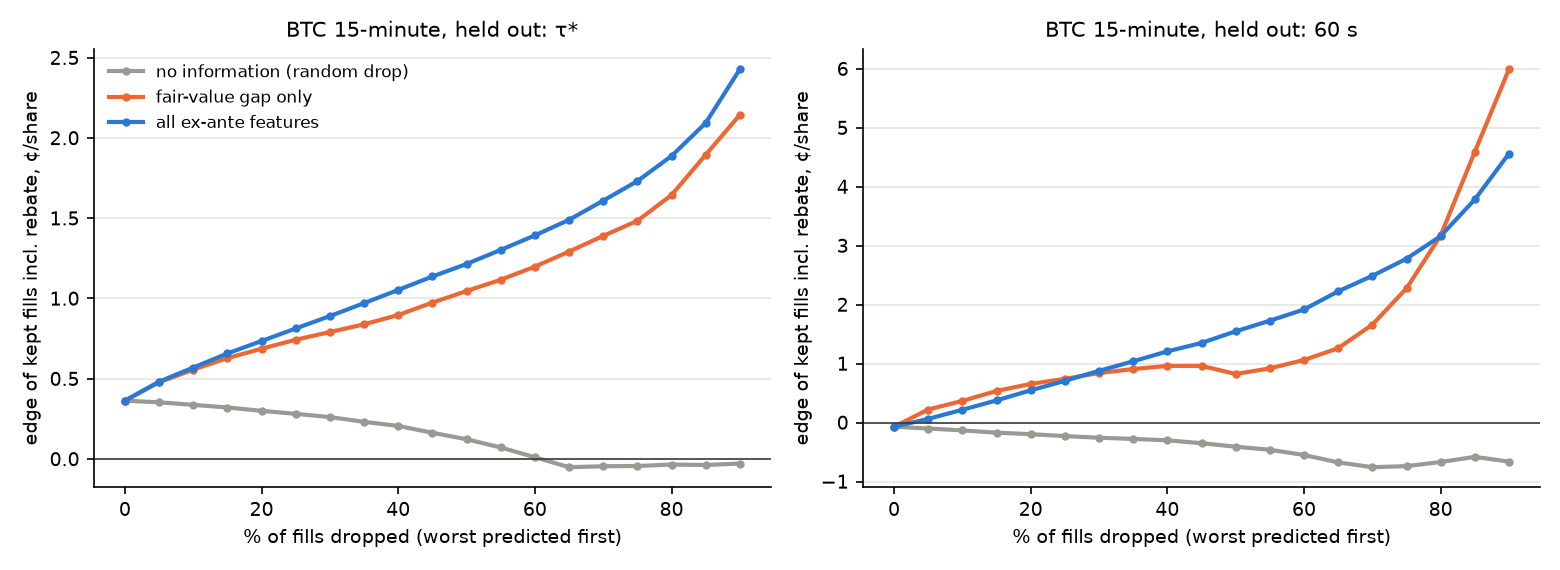
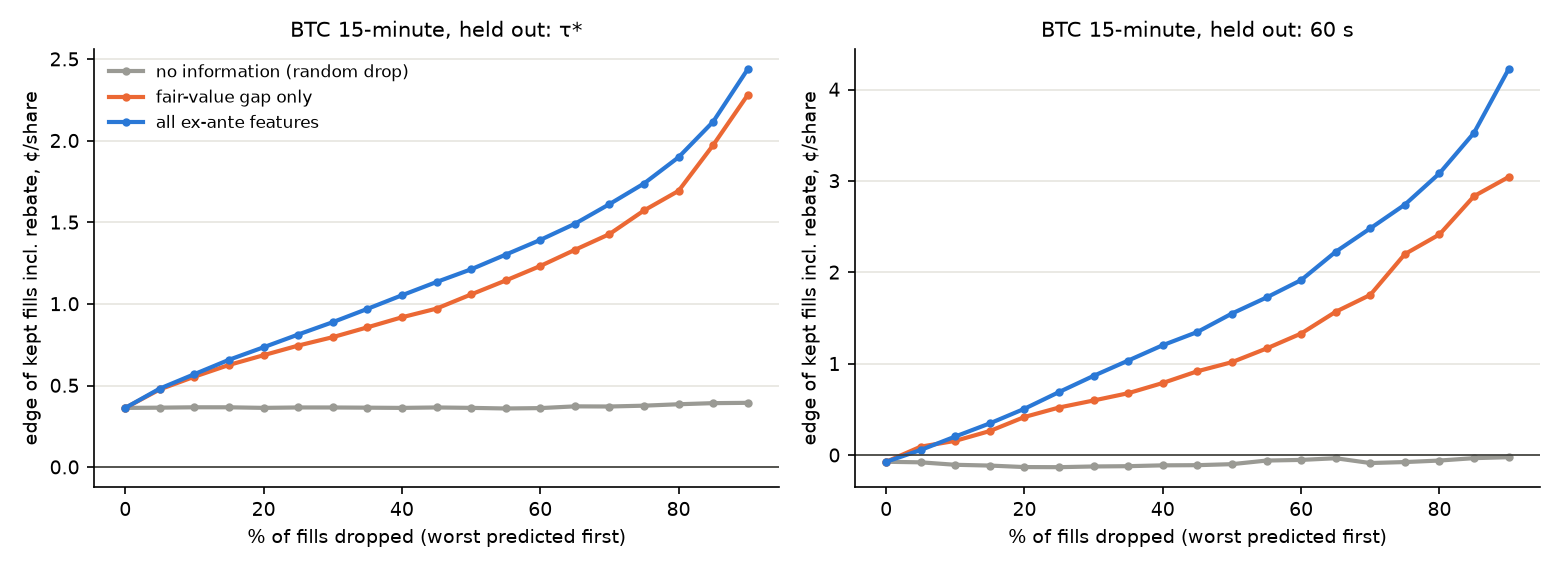
markouts: rank decision-curve fills within each held-out day (random baseline was dropping the good day first)

diff --git a/src/polymm/markouts/analysis.py b/src/polymm/markouts/analysis.py
@@ -238,16 +238,27 @@ def final_params(f: pl.DataFrame, tstar: dict[str, int], lam_rel: float = 0.01, 
 
 def decision_curve(p: pl.DataFrame, fracs=tuple(np.round(np.arange(0, 0.95, 0.05), 2))) -> pl.DataFrame:
     """Drop the fills each scorer likes least, keep the rest: what is the kept fills' realized edge?
-    Ties (const) are broken at random, which is what 'no information' means."""
+    Ties (const) are broken at random, which is what 'no information' means.
+    Why rank within each held-out day: every day has its own walk-forward fit, so the
+    predictions of different days carry different intercepts (const was −0.05 on 11-07 and
+    −0.19 on 11-08). Ranking the pooled days drops whole days by their intercept, which made
+    the 'no information' line throw away the good day first (fixed 2026-11-09). A live rule
+    also only compares fills of the same day against each other."""
     rng = np.random.default_rng(0)
     out = []
     for fam in p["family"].unique().to_list():
         d = p.filter(pl.col("family") == fam)
         M = d["M"].to_numpy() + d["rebate_c"].to_numpy()
         sz = d["size"].to_numpy()
+        day = d["date"].to_numpy() if "date" in d.columns else np.zeros(d.height)
         for sc in ("pred_const", "pred_gap", "pred_ridge"):
             score = d[sc].to_numpy() + rng.uniform(0, 1e-9, d.height)
-            order = np.argsort(-score)
+            # within-day rank in [0, 1): 0 = the fill this scorer likes best that day
+            pct = np.empty(d.height)
+            for u in np.unique(day):
+                ix = np.flatnonzero(day == u)
+                pct[ix[np.argsort(-score[ix])]] = np.arange(ix.size) / ix.size
+            order = np.argsort(pct, kind="stable")
             for q in fracs:
                 keep = order[: max(1, int(round(len(order) * (1 - q))))]
                 out.append({"family": fam, "scorer": sc[5:], "drop": float(q), "kept": len(keep),

diff --git a/research/adverse_selection.md b/research/adverse_selection.md
@@ -10,7 +10,7 @@ An independent code audit ran before this version (§9).
 Every public trade is somebody's maker fill, so we measured the fills that an average resting order got: 233,202 fills, about 4.6 M USD notional, in three families.
 In **BTC 15-minute**, the average maker captures **0.83 ¢** per share at the fill and gives **all of it back within one second**: $M(1\,\text{s}) = +0.04 \pm 0.07$ ¢. Weighted by size, it is $-0.29 \pm 0.14$ ¢ already at 1 s, because larger takers are more informed.
 The maker rebate (0.26 ¢) is roughly what keeps the average maker at zero, and the sign changes from day to day (including the rebate: 11-07 $-0.05$ ¢, 11-08 $+0.60$ ¢).
-The flow is not uniform. Features known **before** a fill separate good fills from bad ones out of sample: dropping the half of fills a ridge model likes least lifts the edge of the kept half from $+0.36$ to $+1.22$ ¢ per share at 1 s, and from $-0.07$ to $+1.55$ ¢ at 60 s.
+The flow is not uniform. Features known **before** a fill separate good fills from bad ones out of sample: dropping the half of fills a ridge model likes least lifts the edge of the kept half from $+0.36$ to $+1.21$ ¢ per share at 1 s, and from $-0.07$ to $+1.55$ ¢ at 60 s.
 **Gate A: GO (provisional) for BTC 15-minute, on one slice: quoted spread > 5 ¢.** It was chosen on the training day and was positive at 95 % on both held-out days, at 1 s and at 60 s.
 The daily ladder and Fed are **inconclusive**: too few fills to fix τ*, and almost no decay inside 60 s.
 
@@ -109,17 +109,20 @@ The target is the edge of a fill, $\hat M(\tau \mid z)$, equivalently $\hat a = 
 
 | BTC 15-minute, held out, edge incl. rebate (¢) | all fills | drop the worst 25 % | drop the worst 50 % |
 |---|---|---|---|
-| τ* = 1 s, random drop | +0.36 | +0.28 | +0.12 |
-| τ* = 1 s, fair-value gap only | +0.36 | +0.74 | +1.05 |
-| τ* = 1 s, ridge (12 features) | +0.36 | +0.81 | **+1.22** |
-| 60 s, fair-value gap only | −0.07 | +0.74 | +0.82 |
-| 60 s, ridge | −0.07 | +0.71 | **+1.55** |
+| τ* = 1 s, random drop | +0.36 | +0.37 | +0.36 |
+| τ* = 1 s, fair-value gap only | +0.36 | +0.75 | +1.06 |
+| τ* = 1 s, ridge (12 features) | +0.36 | +0.81 | **+1.21** |
+| 60 s, random drop | −0.07 | −0.13 | −0.10 |
+| 60 s, fair-value gap only | −0.07 | +0.52 | +1.02 |
+| 60 s, ridge | −0.07 | +0.69 | **+1.55** |
+
+*Fixed 2026-11-09:* fills are now ranked **within each held-out day**. Each day has its own walk-forward fit, so the predictions of different days carry different intercepts. The first version ranked the two days pooled, so the "random drop" line threw away 11-08, the good day, first, and fell to +0.12 ¢. It is now flat, as a no-information line must be. The model lines barely moved.
 
 - **Out-of-sample fit:** at 1 s, correlation 0.27 and $R^2 = 0.079$ against the constant (gap alone: 0.19 / 0.040). At 60 s, 0.10 to 0.11 / 0.010.
 - **Largest coefficients (per SD):** queue imbalance (about −0.8 ¢), then flow in the last 5 s, spread, distance from 0.5, and the BTC move. All are in `summary.md` and `as_params.json`.
 - **Reading the curves:** low $R^2$ is normal for markouts, because the noise per fill is large. The decision curve is the measure that matters: *if we had refused the fills the model disliked, what would the rest have earned?*
 
-**Leakage check.** The fair-value file from stage 3 (`reports/fair/<date>/fair.parquet`) is the *final* fit on all three days. Run with it, the 60 s gap scorer looked much better: dropping half the fills gave +2.13 ¢ instead of +0.82 ¢ (correlation 0.13 instead of 0.11). This stage therefore rebuilds the fair series walk-forward (`markouts/fair_oos.py`); `--in-sample-fair` reproduces the leaky version for comparison.
+**Leakage check.** The fair-value file from stage 3 (`reports/fair/<date>/fair.parquet`) is the *final* fit on all three days. Run with it, the 60 s gap scorer looked much better: dropping half the fills gave +2.13 ¢ instead of +0.82 ¢ (both with the first, pooled ranking; correlation 0.13 instead of 0.11). This stage therefore rebuilds the fair series walk-forward (`markouts/fair_oos.py`); `--in-sample-fair` reproduces the leaky version for comparison.
 
 > **Note (skill 2, honest backtests):** this is the classic "fit on all days, score some of them" leak. It's small per parameter but large in the tail that the decision curve selects. Every number here labelled held-out uses only parameters fitted before that day, including the upstream stage's parameters.
 
